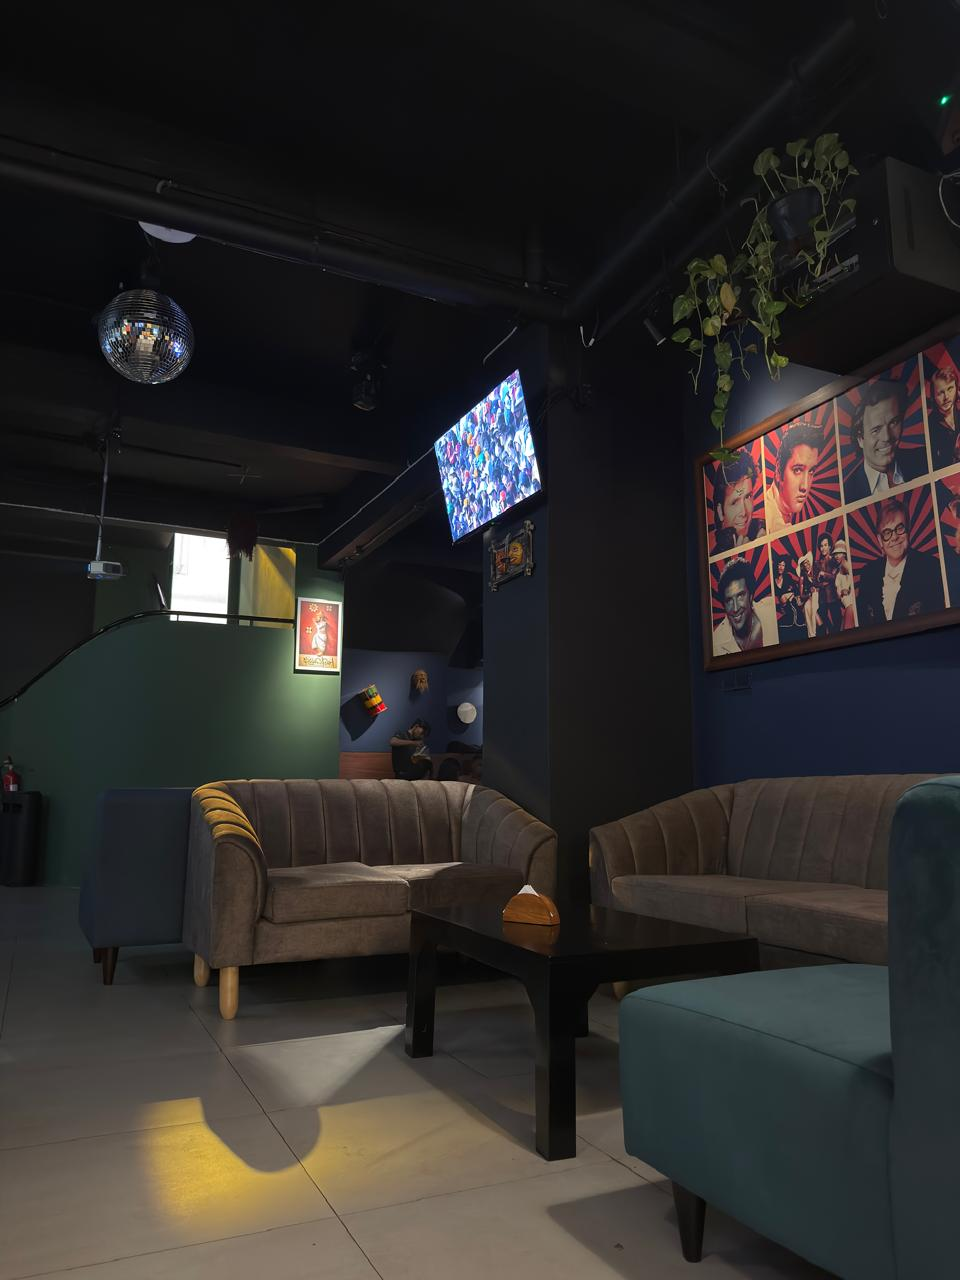
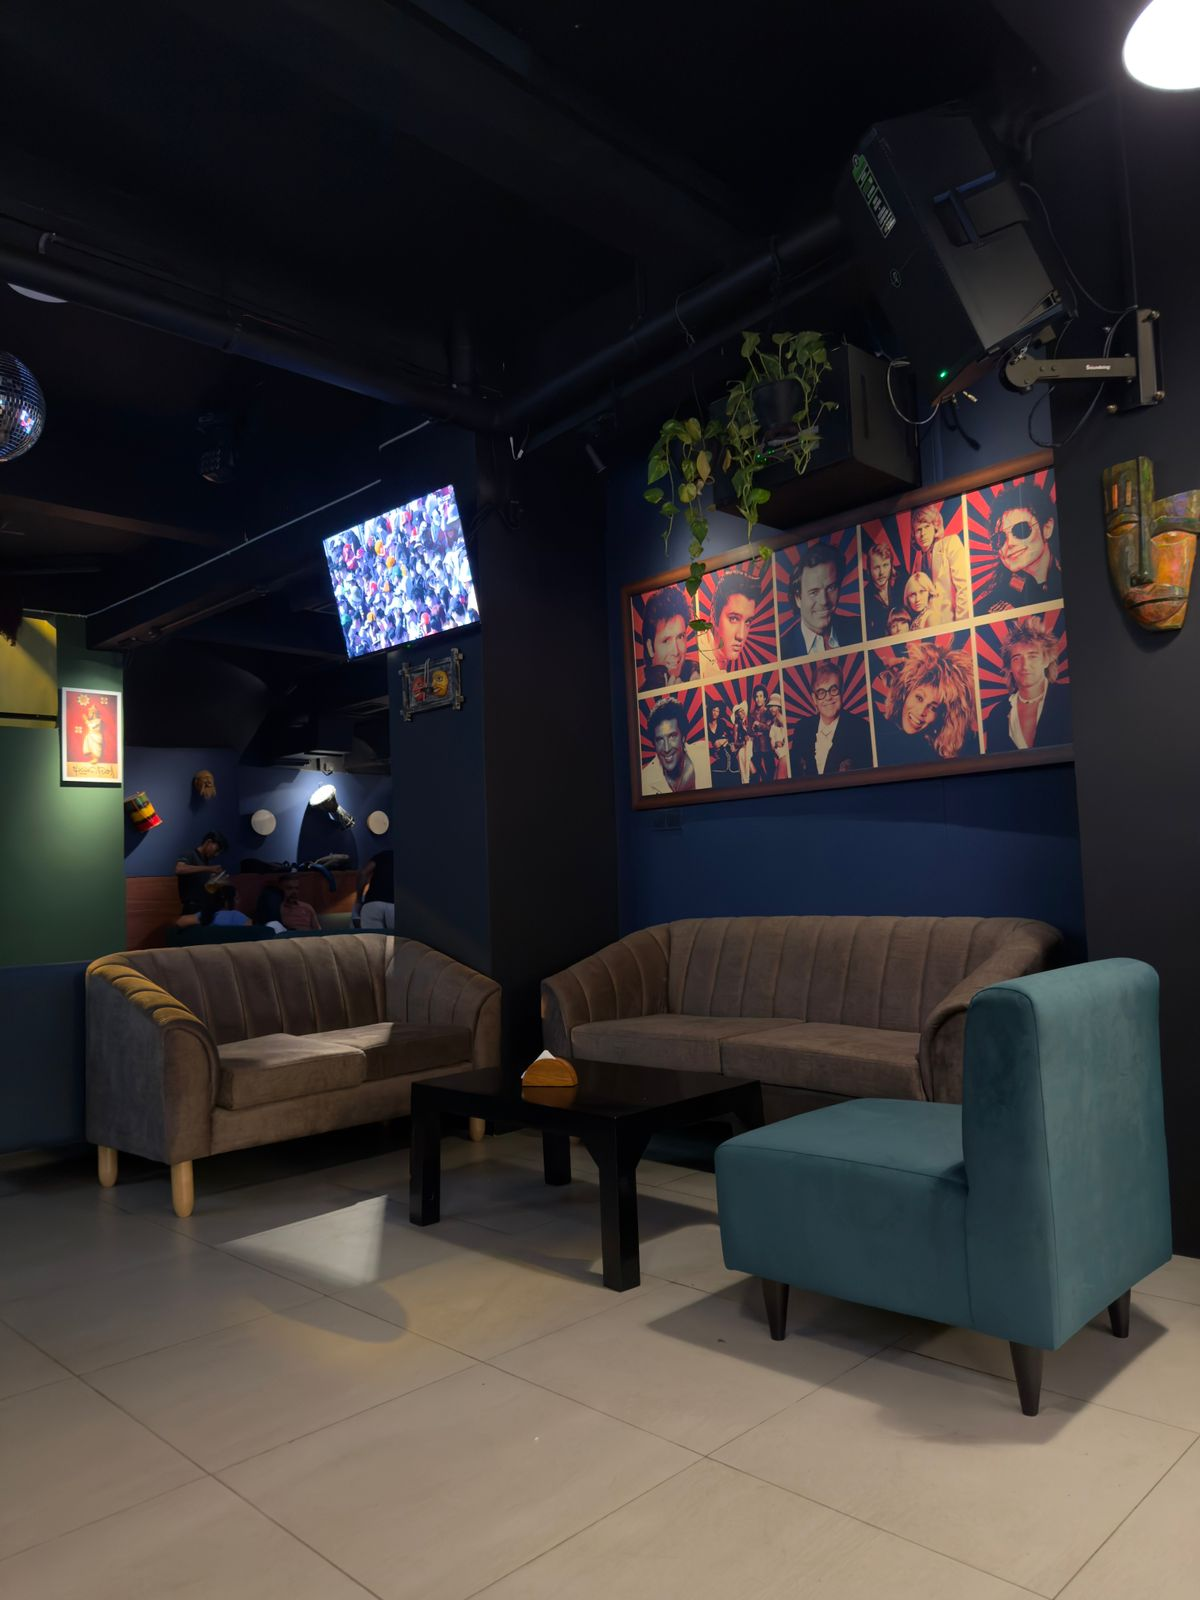
push updates

diff --git a/src/pages/gallery.jsx b/src/pages/gallery.jsx
@@ -10,7 +10,6 @@ import tapImg from '../assets/tt.jpeg';
 import tapbarImg from '../assets/tapbar.png';
 import niImg from '../assets/ni.png';
 import nightImg from '../assets/ka.jpeg';
-import kerImg from '../assets/ker.png';
 
 const galleryImages = [
   { url: barImg, title: "The Grand Bar", category: "Dining" },
@@ -20,7 +19,6 @@ const galleryImages = [
   { url: tapbarImg, title: "Tap Bar Interior", category: "Dining" },
   { url: niImg, title: "Signature Cocktails", category: "Mixology" },
   { url: nightImg, title: "Evening Glow", category: "Vibe" },
-  { url: kerImg, title: "Grand Terrace Spreads", category: "Cuisine" },
 ];
 
 const categories = ["All", "Shisha", "Bar", "Entertainment"];
@@ -29,19 +27,19 @@ export default function GalleryPage() {
   const [filter, setFilter] = useState("All");
   const [selectedImg, setSelectedImg] = useState(null);
 
-  const filteredImages = filter === "All" 
-    ? galleryImages 
+  const filteredImages = filter === "All"
+    ? galleryImages
     : galleryImages.filter(img => img.category === filter || img.category.includes(filter));
 
   return (
     <div className="bg-[#0c0a09] min-h-screen pt-40 pb-24 selection:bg-[#D4A574] selection:text-black overflow-hidden">
-      
+
       {/* Ambient Glows */}
       <div className="fixed top-0 right-0 w-[600px] h-[600px] bg-[#D4A574]/5 blur-[150px] rounded-full -z-0"></div>
       <div className="fixed bottom-0 left-0 w-[500px] h-[500px] bg-[#D4A574]/5 blur-[150px] rounded-full -z-0"></div>
 
       <div className="relative z-10 max-w-[1600px] mx-auto px-6 md:px-12">
-        
+
         {/* --- HEADER SECTION --- */}
         <header className="text-center mb-20">
           <motion.div
@@ -53,7 +51,7 @@ export default function GalleryPage() {
           </motion.div>
 
           <div className="overflow-hidden mb-4">
-            <motion.h1 
+            <motion.h1
               initial={{ y: "100%" }}
               animate={{ y: 0 }}
               transition={{ duration: 1, ease: [0.16, 1, 0.3, 1] }}
@@ -64,7 +62,7 @@ export default function GalleryPage() {
             </motion.h1>
           </div>
 
-          <motion.p 
+          <motion.p
             initial={{ opacity: 0, y: 20 }}
             animate={{ opacity: 1, y: 0 }}
             transition={{ duration: 0.8, delay: 0.2 }}
@@ -80,11 +78,10 @@ export default function GalleryPage() {
             <button
               key={cat}
               onClick={() => setFilter(cat)}
-              className={`px-8 py-2.5 rounded-full text-[10px] tracking-[0.3em] uppercase transition-all duration-500 border ${
-                filter === cat 
-                ? "bg-[#D4A574] text-black border-[#D4A574] shadow-[0_0_20px_rgba(212,165,116,0.2)]" 
-                : "border-white/10 text-stone-500 hover:border-[#D4A574]/40 hover:text-[#D4A574]"
-              }`}
+              className={`px-8 py-2.5 rounded-full text-[10px] tracking-[0.3em] uppercase transition-all duration-500 border ${filter === cat
+                  ? "bg-[#D4A574] text-black border-[#D4A574] shadow-[0_0_20px_rgba(212,165,116,0.2)]"
+                  : "border-white/10 text-stone-500 hover:border-[#D4A574]/40 hover:text-[#D4A574]"
+                }`}
             >
               {cat}
             </button>
@@ -106,8 +103,8 @@ export default function GalleryPage() {
                 className="relative group cursor-pointer overflow-hidden rounded-xl border border-white/5 bg-stone-900/40 break-inside-avoid"
               >
                 <div className="overflow-hidden">
-                  <motion.img 
-                    src={img.url} 
+                  <motion.img
+                    src={img.url}
                     alt={img.title}
                     whileHover={{ scale: 1.08 }}
                     transition={{ duration: 1.2, ease: [0.16, 1, 0.3, 1] }}
@@ -136,7 +133,7 @@ export default function GalleryPage() {
       {/* --- LIGHTBOX (Fix කරපු කොටස) --- */}
       <AnimatePresence>
         {selectedImg && (
-          <motion.div 
+          <motion.div
             initial={{ opacity: 0 }}
             animate={{ opacity: 1 }}
             exit={{ opacity: 0 }}
@@ -147,8 +144,8 @@ export default function GalleryPage() {
             <button className="absolute top-6 right-6 text-white/50 hover:text-[#D4A574] transition-colors z-[110]">
               <X size={32} strokeWidth={1} />
             </button>
-            
-            <motion.div 
+
+            <motion.div
               initial={{ scale: 0.9, opacity: 0 }}
               animate={{ scale: 1, opacity: 1 }}
               exit={{ scale: 0.9, opacity: 0 }}
@@ -157,10 +154,10 @@ export default function GalleryPage() {
             >
               {/* Image Container with Constraints */}
               <div className="relative w-full flex justify-center">
-                <img 
-                  src={selectedImg.url} 
-                  className="max-w-full max-h-[75vh] object-contain rounded-lg shadow-2xl border border-white/10" 
-                  alt="Preview" 
+                <img
+                  src={selectedImg.url}
+                  className="max-w-full max-h-[75vh] object-contain rounded-lg shadow-2xl border border-white/10"
+                  alt="Preview"
                 />
               </div>
 

diff --git a/src/pages/Shisha.jsx b/src/pages/Shisha.jsx
@@ -1,7 +1,7 @@
 import React from 'react';
 import { motion } from 'framer-motion';
 import { Link } from 'react-router-dom';
-import { ArrowLeft, Flame, Wind, BookOpen } from 'lucide-react';
+import { ArrowLeft, Flame, Wind, BookOpen, Clock, MapPin } from 'lucide-react';
 import nigImg from "../assets/shi.png";
 
 const Shisha = () => {
@@ -9,21 +9,21 @@ const Shisha = () => {
     <div className="bg-[#0c0a09] min-h-screen text-[#E6D5C3] font-serif selection:bg-[#D4A574]">
       {/* Hero Section */}
       <section className="relative h-[65vh] flex items-end pb-16 px-6 md:px-20 overflow-hidden">
-        <motion.img 
-          initial={{ scale: 1.2, opacity: 0 }} 
-          animate={{ scale: 1, opacity: 0.4 }} 
-          transition={{ duration: 1.5 }} 
-          src={nigImg} 
-          className="absolute inset-0 w-full h-full object-cover" 
+        <motion.img
+          initial={{ scale: 1.2, opacity: 0 }}
+          animate={{ scale: 1, opacity: 0.4 }}
+          transition={{ duration: 1.5 }}
+          src={nigImg}
+          className="absolute inset-0 w-full h-full object-cover"
         />
         <div className="absolute inset-0 bg-gradient-to-t from-[#0c0a09] via-transparent to-transparent"></div>
         <div className="relative z-10 w-full max-w-7xl mx-auto">
           <Link to="/" className="flex items-center gap-2 text-[#D4A574] text-[10px] uppercase tracking-widest mb-8 font-bold hover:translate-x-[-5px] transition-transform">
             <ArrowLeft size={16} /> Back
           </Link>
-          <motion.h1 
-            initial={{ y: 30, opacity: 0 }} 
-            animate={{ y: 0, opacity: 1 }} 
+          <motion.h1
+            initial={{ y: 30, opacity: 0 }}
+            animate={{ y: 0, opacity: 1 }}
             className="text-6xl md:text-9xl uppercase tracking-tight"
           >
             Istanbul Nights
@@ -35,21 +35,29 @@ const Shisha = () => {
       <section className="py-20 px-6 md:px-20 max-w-7xl mx-auto grid md:grid-cols-2 gap-20">
         <div className="space-y-8">
           <h2 className="text-[#D4A574] text-[10px] uppercase tracking-[0.4em] font-black mb-8 italic">
-            Exotic Rooftop Lounge
+            Shisha and hookah on the terrace
+
           </h2>
           <p className="text-2xl md:text-3xl font-light italic opacity-80 leading-relaxed">
-            "Transport yourself to the heart of Turkey. Premium shisha blends, Mediterranean bites, and starlit views of the city."
+            "Transport yourself to the heart of Turkey mocktails, fresh juice with Mediterranean bites, and starlit views of the city."
           </p>
+
+          <div className="flex gap-10 pt-10 border-t border-white/5">
+            <div className="flex items-center gap-3">
+              <Clock className="text-[#D4A574]" size={18}/>
+              <span className="text-xs tracking-widest">2pm to midnight</span>
+            </div>
+          </div>
 
           {/* --- SHISHA MENU DOWNLOAD BUTTON --- */}
           <div className="pt-8">
             <h3 className="text-[#D4A574] text-[10px] uppercase tracking-[0.2em] font-bold mb-4 font-sans">View Our Selection</h3>
             <div className="flex flex-wrap gap-4">
-              <a 
-                href="/menus/istanbul-nights-menu.pdf" 
+              <a
+                href="/menus/istanbul-nights-menu.pdf"
                 target="_blank"
                 rel="noreferrer"
-                download="Istanbul_Nights_Menu.pdf" 
+                download="Istanbul_Nights_Menu.pdf"
                 className="flex-1 min-w-fit border border-white/10 hover:border-[#D4A574] text-stone-300 hover:text-[#D4A574] px-8 py-4 text-[10px] font-black uppercase tracking-[0.1em] transition-all flex items-center justify-center gap-2 rounded-full font-sans"
               >
                 <BookOpen size={14} /> Shisha Menu

diff --git a/src/pages/TapBar.jsx b/src/pages/TapBar.jsx
@@ -1,7 +1,7 @@
 import React from 'react';
 import { motion } from 'framer-motion';
 import { Link } from 'react-router-dom';
-import { ArrowLeft, Beer } from 'lucide-react';
+import { ArrowLeft, Beer, Clock, MapPin } from 'lucide-react';
 import tapImg from "../assets/taptap.png";
 
 const TapBar = () => {
@@ -18,8 +18,14 @@ const TapBar = () => {
 
       <section className="py-20 px-6 md:px-20 max-w-7xl mx-auto grid md:grid-cols-2 gap-20">
         <div>
-          <h2 className="text-[#D4A574] text-[10px] uppercase tracking-[0.4em] font-black mb-8 italic">Crafted & Chilled</h2>
-          <p className="text-2xl md:text-3xl font-light italic opacity-80 leading-relaxed">"The city's heartbeat. 10+ craft beers on tap, live sports, and the ultimate pub atmosphere for the modern explorer."</p>
+          <h2 className="text-[#D4A574] text-[10px] uppercase tracking-[0.4em] font-black mb-8 italic">Tap Bar – Established 1875</h2>
+          <p className="text-2xl md:text-3xl font-light italic opacity-80 leading-relaxed">"Founded in 1875, Tap Bar stands as a timeless landmark where history, character, and tradition come together—serving craft and draft beers on tap and amazing bar bites with live sporting events and great music, creating lasting experiences for the modern-day explorer."</p>
+          <div className="flex gap-10 pt-10 border-t border-white/5">
+            <div className="flex items-center gap-3">
+              <Clock className="text-[#D4A574]" size={18}/>
+              <span className="text-xs tracking-widest">2pm to midnight</span>
+            </div>
+          </div>
         </div>
         
       </section>

diff --git a/src/pages/Bar.jsx b/src/pages/Bar.jsx
@@ -36,20 +36,22 @@ const Bar = () => {
       <section className="py-20 px-6 md:px-20 max-w-7xl mx-auto grid md:grid-cols-2 gap-20">
         <div className="space-y-8">
           <h2 className="text-[#D4A574] text-[10px] uppercase tracking-[0.4em] font-black italic">
-            The Spirit of Heritage
+            Spirits of heritage on York street Colombo 01(fort)
+
           </h2>
           <p className="text-2xl md:text-3xl font-light leading-relaxed opacity-80 italic">
-            "Colombo's most refined sanctuary for connoisseurs. Experience an unrivaled collection of rare malts and master-crafted signature cocktails."
+            "Collection of arrack ,malts ,signature cocktails, shooters, superb Sri Lankan bar bites with live music amazing lighting a live sporting events on giant screens while you party on the grand terrace 
+This is an out door smoking friendly area"
           </p>
           
           <div className="flex gap-10 pt-10 border-t border-white/5">
             <div className="flex items-center gap-3">
               <Clock className="text-[#D4A574]" size={18}/>
-              <span className="text-xs tracking-widest uppercase">12PM - 2AM</span>
+              <span className="text-xs tracking-widest">2pm to midnight</span>
             </div>
             <div className="flex items-center gap-3">
               <MapPin className="text-[#D4A574]" size={18}/>
-              <span className="text-xs tracking-widest uppercase">Lobby Level</span>
+              <span className="text-xs tracking-widest uppercase">terrace</span>
             </div>
           </div>
 

diff --git a/src/pages/Contact.jsx b/src/pages/Contact.jsx
@@ -175,7 +175,7 @@ export default function Contact() {
               <h2 className="text-4xl md:text-5xl font-serif text-white italic">Visit the <span className="text-[#D4A574]">Grand Terrace</span></h2>
             </div>
             <motion.a
-              href="https://maps.google.com" target="_blank"
+              href="https://maps.app.goo.gl/k1eY3y4HyzrnU52S9" target="_blank"
               whileHover={{ x: 10 }}
               className="text-white text-xs uppercase tracking-widest font-bold flex items-center gap-4 border-b border-[#D4A574] pb-2"
             >
@@ -185,7 +185,7 @@ export default function Contact() {
 
           <div className="relative h-[500px] w-full rounded-[40px] overflow-hidden border border-white/5 shadow-2xl grayscale hover:grayscale-0 transition-all duration-1000">
             <iframe
-              src="https://www.google.com/maps/embed?pb=!1m18!1m12!1m3!1d3960.791552554625!2d79.8454!3d6.9319!2m3!1f0!2f0!3f0!3m2!1i1024!2i768!4f13.1!3m3!1m2!1s0x3ae2593d6e903f0b%3A0x6a0a09e09d10!2sColombo%20Fort!5e0!3m2!1sen!2slk!4v1708300000000!5m2!1sen!2slk"
+              src="https://www.google.com/maps/embed?pb=!1m18!1m12!1m3!1d15842.427838561735!2d79.8398418!3d6.9360824!2m3!1f0!2f0!3f0!3m2!1i1024!2i768!4f13.1!3m3!1m2!1s0x3ae25968efb6ed09%3A0x24dd28f88e938be7!2sGRAND%20TERRACE!5e0!3m2!1sen!2slk!4v1714030613000!5m2!1sen!2slk"
               width="100%" height="100%" style={{ border: 0 }} allowFullScreen="" loading="lazy"
               title="Grand Terrace Map"
             />

diff --git a/src/data/diningData.js b/src/data/diningData.js
@@ -3,10 +3,7 @@ import kerImg from "../assets/ka.jpeg";
 import tapImg from "../assets/taptap.png";
 import nigImg from "../assets/shi.png";
 
-import governorsBarMenu from "../menus/bite menu.pdf";
-import karaokeSuiteMenu from "../menus/bar menu.pdf";
-import tapBarMenu from "../menus/beer menu.pdf";
-import istanbulMenu from "../menus/istanbul-nights-menu.pdf";
+// No PDF imports needed since they are in the public folder
 
 export const diningOutlets = [
   {
@@ -18,7 +15,7 @@ export const diningOutlets = [
     image: baImg,
     openingHours: "11:00 AM - 11:00 PM",
     dressCode: "Smart Casual / Formal",
-    menuLink: governorsBarMenu,
+    menuLink: "/menus/Bite_Menu.pdf",
   },
   {
     id: 2,
@@ -29,7 +26,7 @@ export const diningOutlets = [
     image: kerImg,
     openingHours: "06:00 PM - 02:00 AM",
     dressCode: "Casual",
-    menuLink: karaokeSuiteMenu,
+    menuLink: "/menus/Bar_Menu.pdf",
   },
   {
     id: 3,
@@ -40,7 +37,7 @@ export const diningOutlets = [
     image: tapImg,
     openingHours: "04:00 PM - 12:00 AM",
     dressCode: "Casual / Trendy",
-    menuLink: tapBarMenu,
+    menuLink: "/menus/Beer_Menu.pdf",
   },
   {
     id: 4,
@@ -51,6 +48,6 @@ export const diningOutlets = [
     image: nigImg,
     openingHours: "06:00 PM - 03:00 AM",
     dressCode: "Evening Wear / Smart Casual",
-    menuLink: istanbulMenu,
+    menuLink: "/menus/Istanbul_Nights_Menu.pdf",
   },
 ];

diff --git a/src/pages/Karaoke.jsx b/src/pages/Karaoke.jsx
@@ -1,7 +1,7 @@
 import React from 'react';
 import { motion } from 'framer-motion';
 import { Link } from 'react-router-dom';
-import { ArrowLeft, Music } from 'lucide-react';
+import { ArrowLeft, Music, Clock, MapPin } from 'lucide-react';
 import kerImg from "../assets/ka.jpeg";
 
 const Karaoke = () => {
@@ -18,8 +18,9 @@ const Karaoke = () => {
 
       <section className="py-20 px-6 md:px-20 max-w-7xl mx-auto grid md:grid-cols-2 gap-20">
         <div>
-          <h2 className="text-[#D4A574] text-[10px] uppercase tracking-[0.4em] font-black mb-8 italic">Sing in Luxury</h2>
-          <p className="text-2xl md:text-3xl font-light italic opacity-80 leading-relaxed">"Private suites for your inner rockstar. High-end sound systems, personalized service, and memories that last a lifetime."</p>
+          <h2 className="text-[#D4A574] text-[10px] uppercase tracking-[0.4em] font-black mb-8 italic">Sing alone at the governors music suite</h2>
+          <p className="text-2xl md:text-3xl font-light italic opacity-80 leading-relaxed">"A beautifully decorated music suites keeping to the ancient charm of the grand oriental hotel brings out the inner rockstar in you high-end sound system, projections, personalized service ,amazing drinks and memories that last a lifetime"
+          </p>
         </div>
 
       </section>

diff --git a/src/pages/Dining.jsx b/src/pages/Dining.jsx
@@ -4,10 +4,11 @@ import { Wine, Download, ArrowRight, Flame, Zap, Beer as BeerIcon, Utensils, Win
 import { diningOutlets } from '../data/diningData';
 
 // PDF Imports
-import governorsBarMenu from "../menus/bite menu.pdf";
-import karaokeSuiteMenu from "../menus/bar menu.pdf";
-import tapBarMenu from "../menus/beer menu.pdf";
-import istanbulMenu from "../menus/istanbul-nights-menu.pdf";
+// PDF Paths
+const governorsBarMenu = "/menus/Bite_Menu.pdf";
+const karaokeSuiteMenu = "/menus/Bar_Menu.pdf";
+const tapBarMenu = "/menus/Beer_Menu.pdf";
+const istanbulMenu = "/menus/Istanbul_Nights_Menu.pdf";
 
 const Dining = () => {
   return (
@@ -102,7 +103,7 @@ const Dining = () => {
                       <Flame className="text-[#D4A574] shrink-0" size={18} />
                       <div>
                         <span className="block text-[9px] uppercase text-stone-500 tracking-[0.2em] font-bold mb-1">Timing</span>
-                        <span className="text-[13px] text-stone-200">{outlet.openingHours}</span>
+                        <span className="text-[13px] text-stone-200">2pm to midnight</span>
                       </div>
                     </div>
                   </div>
